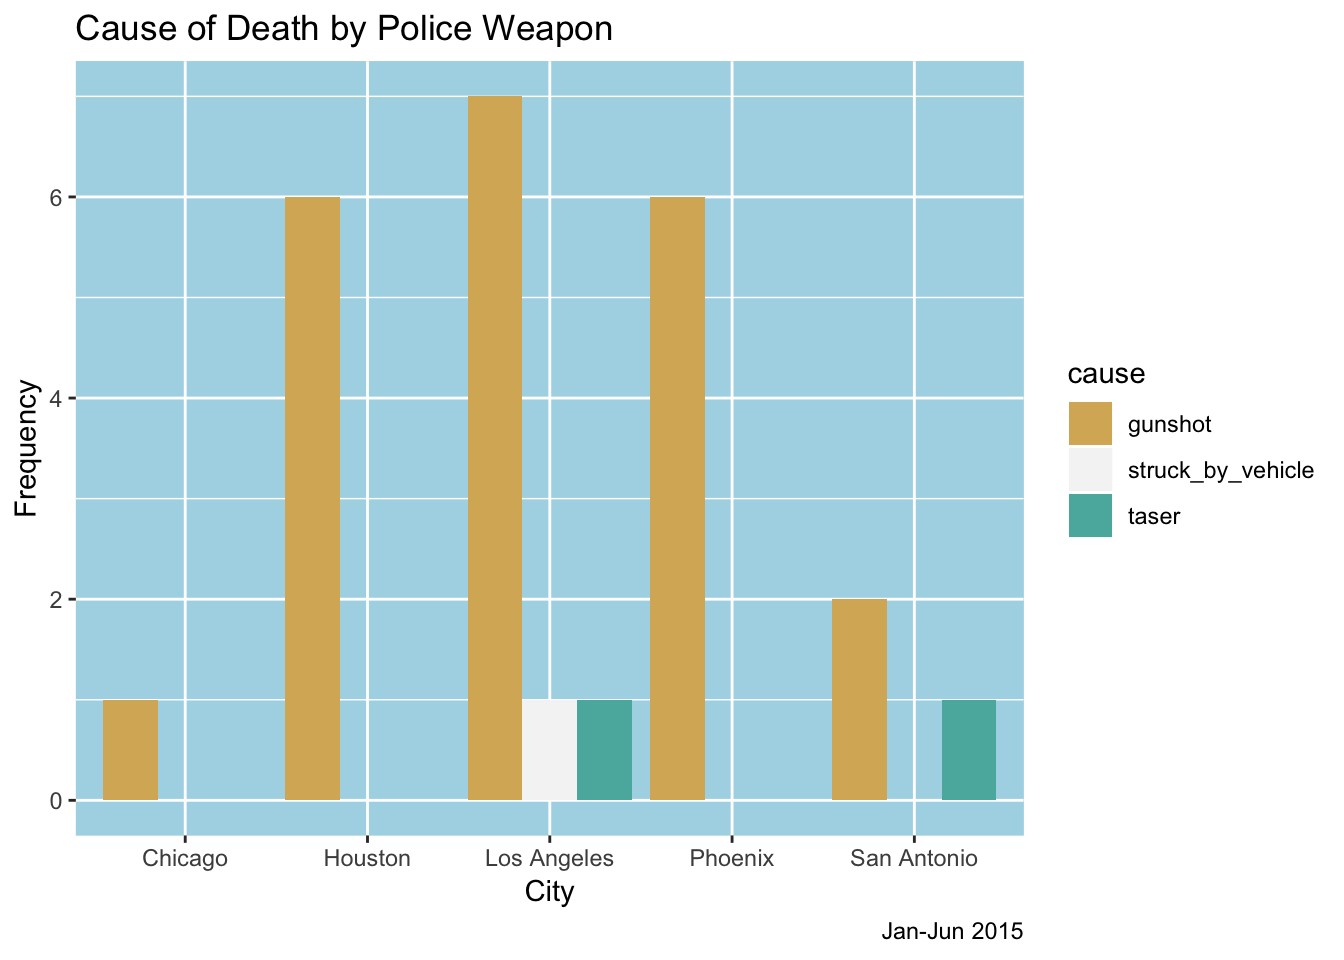
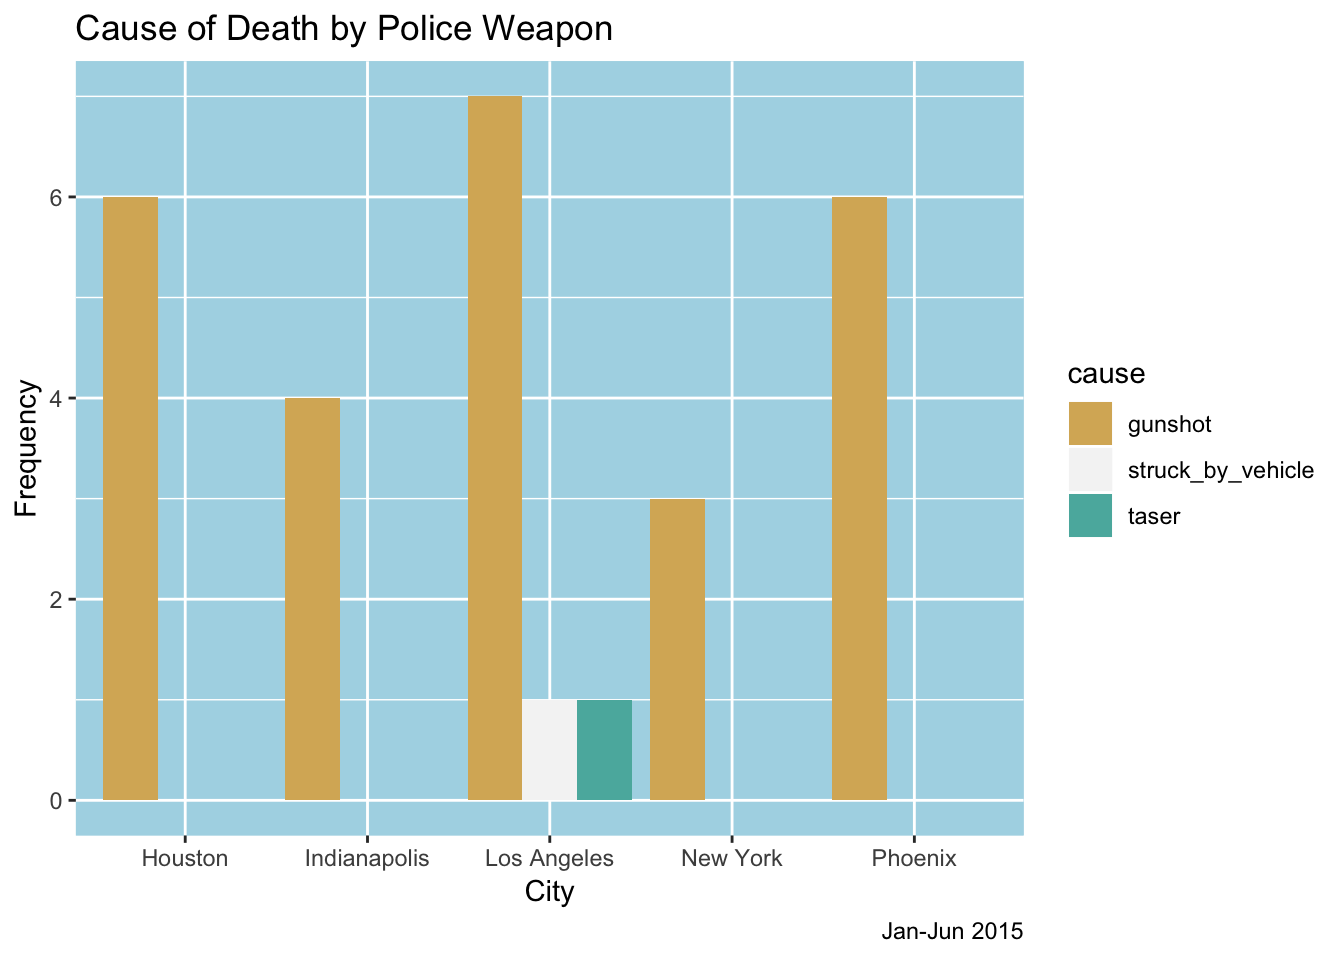
Cities changed after taking out 2016

diff --git a/top_5_cities.html b/top_5_cities.html
@@ -190,6 +190,14 @@ $(document).ready(function () {
   <a href="about.html">About</a>
 </li>
 <li>
+  <a href="top_5_cities.html">Top 5 Cities</a>
+</li>
+<li class="dropdown-header">Time Dependency</li>
+<li>
+  <a href="Exploration.html">Racial Factors</a>
+</li>
+<li class="dropdown-header">Income Analysis</li>
+<li>
   <a href="mailto:&lt;you@youremail.com&gt;">
     <span class="fa fa-envelope fa-lg"></span>
      
@@ -237,12 +245,12 @@ $(document).ready(function () {
 <td align="right">6</td>
 </tr>
 <tr class="even">
-<td align="left">San Antonio</td>
-<td align="right">3</td>
+<td align="left">Indianapolis</td>
+<td align="right">4</td>
 </tr>
 <tr class="odd">
-<td align="left">Chicago</td>
-<td align="right">1</td>
+<td align="left">New York</td>
+<td align="right">4</td>
 </tr>
 </tbody>
 </table>
